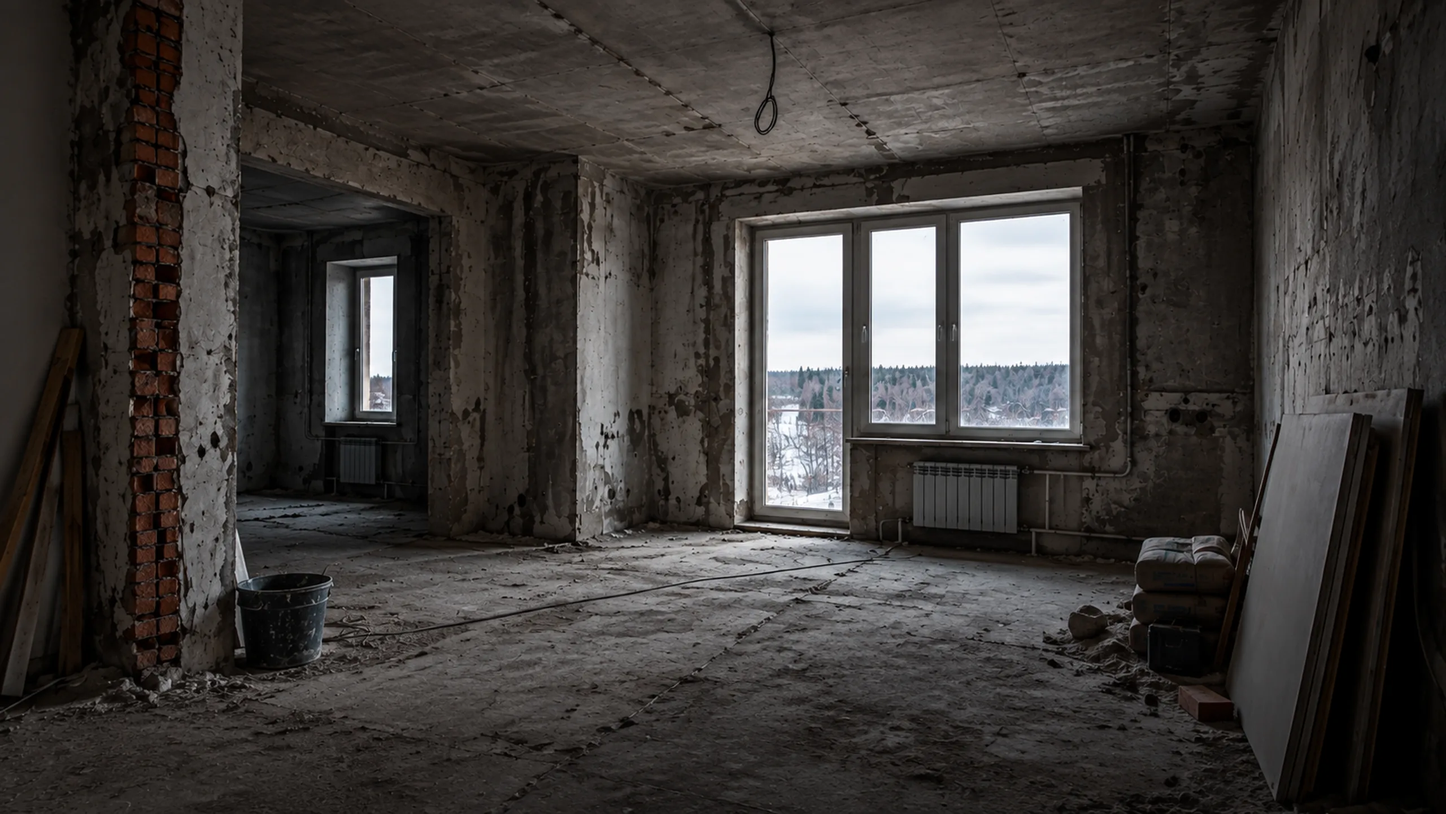
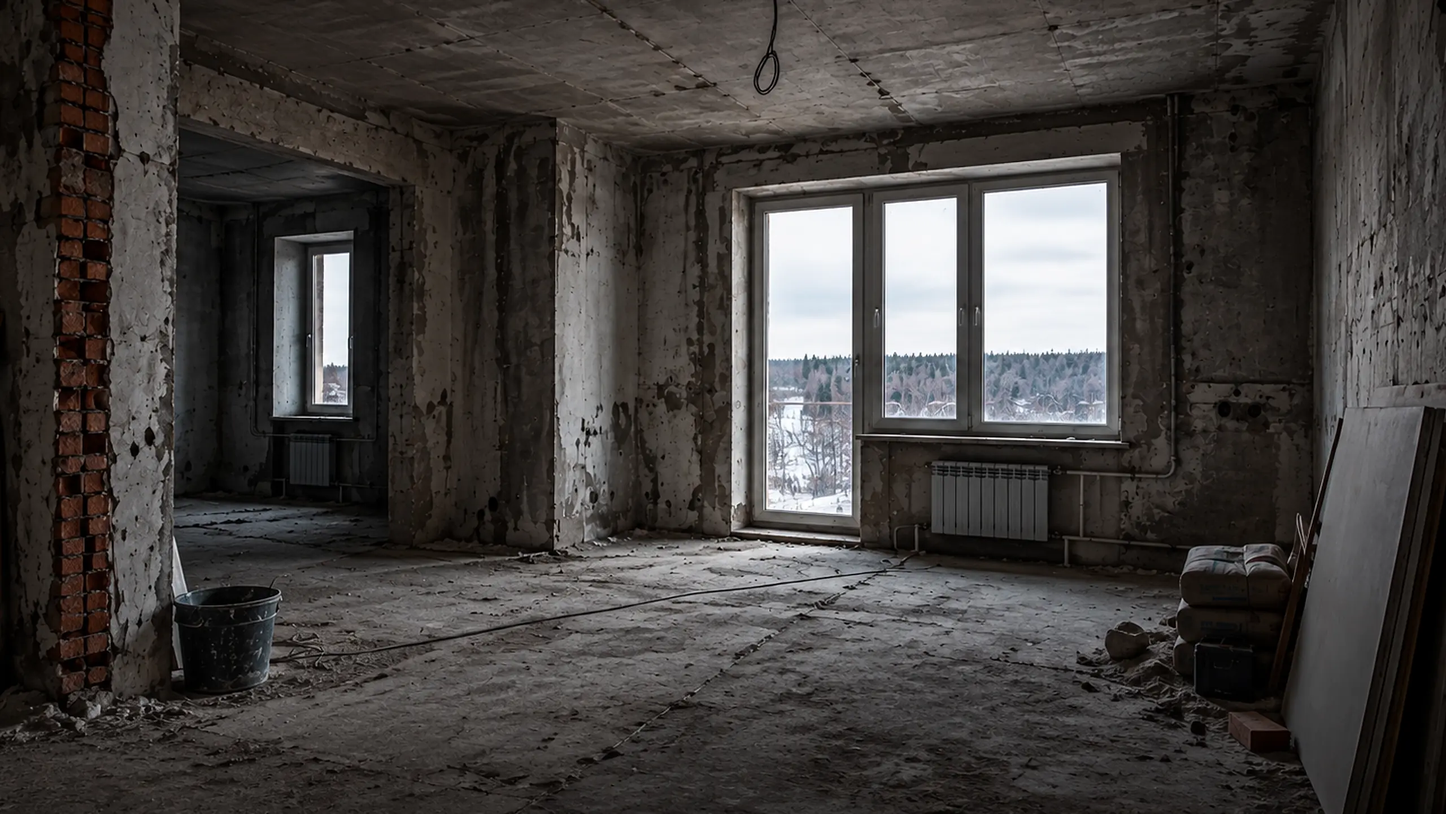
Совмещение кадров «до/после» по геометрии окна
Кадры сгенерированы независимо, и охват у них разный: «после» шире
на 12 %. На разделителе оконный проём ломался — рама, подоконник
и радиатор не сходились.

Масштаб и сдвиг подобраны перебором по карте градиентов: совпадение
структурных линий выросло на 27 %, равномерный масштаб 1.12 даёт
практически тот же результат, что и разный по осям, поэтому пропорции
кадра не искажены. «До» пересобран из исходника с этим кадрированием;
«после» остался целым.

Claude-Session: https://claude.ai/code/session_01Uq9uYsibYoy64GkV7s2fiw

diff --git a/src/lib/assetManifest.ts b/src/lib/assetManifest.ts
@@ -7,7 +7,7 @@ export const assetManifest: Record<string, string> = {
   "/icon-32.png": "e0321904",
   "/icon-512.png": "7229434c",
   "/images/before-after/after.webp": "18dbc792",
-  "/images/before-after/before.webp": "06cb3a19",
+  "/images/before-after/before.webp": "009c044b",
   "/images/projects/project-01.webp": "86c3d1c8",
   "/images/projects/project-02.webp": "b51fcef8",
   "/images/projects/project-03.webp": "1e31f65d",

diff --git a/CONTENT-REPLACEMENT.md b/CONTENT-REPLACEMENT.md
@@ -95,7 +95,7 @@
 | ~~Услуга 05~~ | `public/images/services/materials.webp` | 9:10 | 900×1000 | **Получено от заказчика** |
 | ~~Услуга 06~~ | `public/images/services/other.webp` | 9:10 | 900×1000 | **Получено от заказчика** |
 | Проект 01–03 | `public/images/projects/project-0N.webp` | 4:3 | 1600×1200 | Реализованный объект, 1 главный кадр |
-| ~~До / После~~ | `public/images/before-after/before.webp`, `after.webp` | 16:9 | 2560×1441 | **Получено от заказчика** |
+| ~~До / После~~ | `public/images/before-after/before.webp`, `after.webp` | 16:9 | 2560×1441 | **Получено от заказчика.** Кадры сняты с разным охватом — «до» скадрирован под геометрию «после» (совмещение по оконному проёму) |
 
 **Требование к паре «до/после».** Кадры должны быть одного размера
 и с совпадающей геометрией: оконные проёмы, линия потолка и стены
